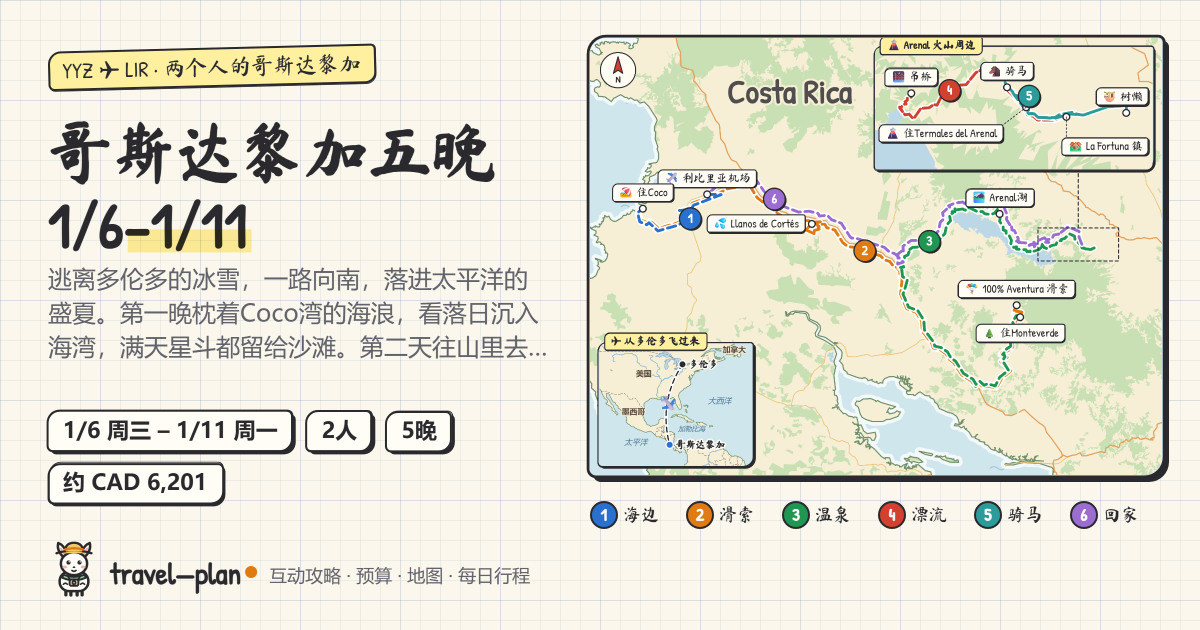
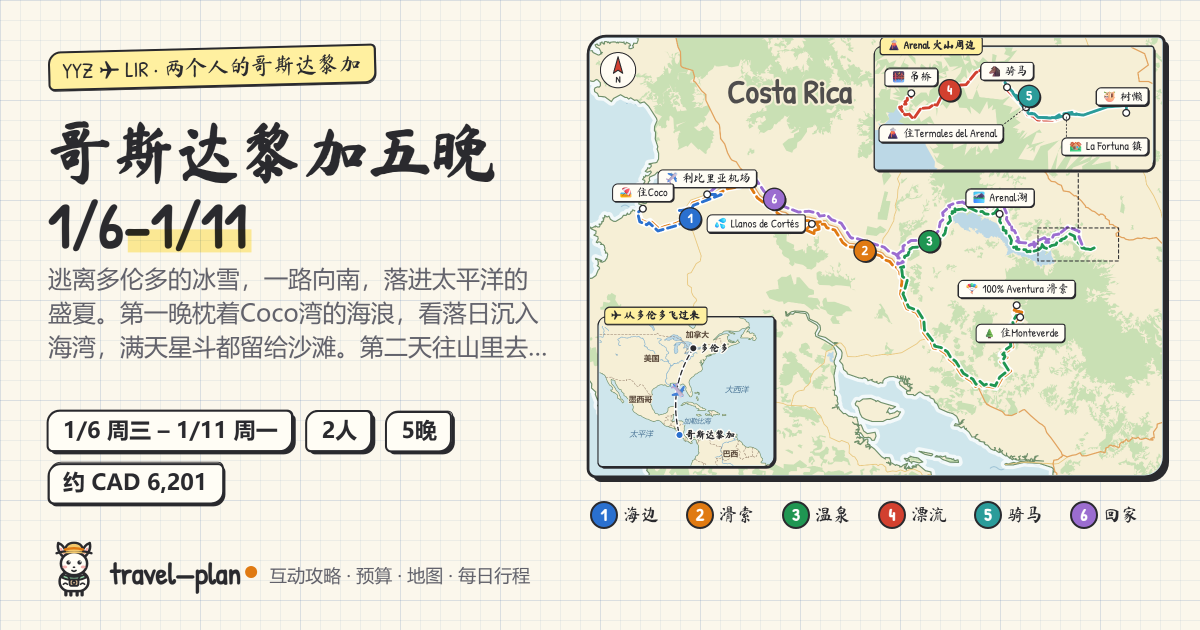
飞行小图：出发国至少露出一定比例（originVisible），哥斯达黎加小图放大并露出三分之一加拿大
- originVisible：出发国露出的面积不够就继续缩小地图
- 出发城市落在粗轮廓外时取最近的大国；两份行程写明 from.country
- 哥斯达黎加小图 340×290，originVisible 0.34

Changed region(s): [[0.4933, 0.4825, 0.6475, 0.754]]

diff --git a/references/data.md b/references/data.md
@@ -108,7 +108,7 @@ dailyRoute：`{day,label,placeIds[],extraPlaceIds[],transport,note,officialUrl}`
 | --- | --- |
 | `kicker,title,subtitle,footer` | 海报页头文字；`footer` 一般不写，右下角只留一行很小的「© OpenStreetMap 贡献者」（地图数据许可要求，不能去掉），写了才在它前面加一句 |
 | `days[]` | `{day,tag,short,items[],badgeAt,badgeOffset?,insetBadgeAt?,insetBadgeOffset?}`；`tag`卡片标题，海报底部日程条也写它（放不下在「·」处折成两行）；`short`只给小尺寸预览卡用；`items`最多5条亮点，航班写「航空公司代码 出发-到达」，例如 `"✈ PD YYZ-LIR"`，不写航班号和时刻；`badgeAt`是日期徽章在当天路线上的位置（0–1），徽章挤在一起或压住贴纸时调它或 `badgeOffset:[dx,dy]` |
-| `locator` | 飞行位置小图 `{title,from:{lng,lat,label,country?},to:{lng,lat,label},corner?,width?,height?,pad?}`；出发的国家一定写名字（`from.country` 可指定，不写就按出发点落在哪个大国里自动找），放不下时自动把范围放大、地图整体缩小再排：主图空着的一角（`corner` 默认 `bl`）画一张大陆小地图和一条虚线航线，标出从哪里飞过来（例如多伦多 → 哥斯达黎加）。底图读同目录的 `world-land.json`（随底板提供，Natural Earth 公有领域数据：1:110m 陆地、湖、国界、海洋名，1:50m 主要河流；国家名只写面积 150 万平方公里以上的大国（加拿大、美国、墨西哥……），其他国家只画国界不写名；发布时一起带上），不在就不画；国家名和海洋名自动避开航线、飞机和城市标签。航线经过的国家很远、主图又有空角时用；放在不挡路线和贴纸的角 |
+| `locator` | 飞行位置小图 `{title,from:{lng,lat,label,country?},to:{lng,lat,label},corner?,width?,height?,pad?}`；出发的国家一定写名字（`from.country` 可指定，不写就按出发点落在哪个大国里自动找），放不下时自动把范围放大、地图整体缩小再排；`originVisible`（例如 `0.34`）要求出发国至少这么大比例的面积露在小图里，不够也继续缩小。出发城市在海边或湖边时轮廓可能不准，最好写上 `from.country`：主图空着的一角（`corner` 默认 `bl`）画一张大陆小地图和一条虚线航线，标出从哪里飞过来（例如多伦多 → 哥斯达黎加）。底图读同目录的 `world-land.json`（随底板提供，Natural Earth 公有领域数据：1:110m 陆地、湖、国界、海洋名，1:50m 主要河流；国家名只写面积 150 万平方公里以上的大国（加拿大、美国、墨西哥……），其他国家只画国界不写名；发布时一起带上），不在就不画；国家名和海洋名自动避开航线、飞机和城市标签。航线经过的国家很远、主图又有空角时用；放在不挡路线和贴纸的角 |
 | `inset` | 局部放大小图 `{title,bbox:[西,南,东,北],days:[],pois:[],corner?,width?}`：好几天的短途挤在一小片（例如火山小镇周边）时用。小图画在主图一角（`corner` 默认 `bl`，可 `tr` 等），主图上用虚线框出范围并连过去；`days` 的徽章画在小图里（位置用 `insetBadgeAt`），`pois` 的贴纸只在小图里（主图 `pois` 就别再放这些点）。几天走同一段路时，海报会把每天的线往旁边错开一点，长的先画、短的后画，每天都看得见 |
 | `pois[]` | `{placeId,icon,label,side,dx,dy}`；side为left/right/above/below，或用dx/dy像素偏移并自动画引线 |
 | `bbox` | `[西,南,东,北]`，海报地图范围；缺省为全部地点和路线外扩10% |
